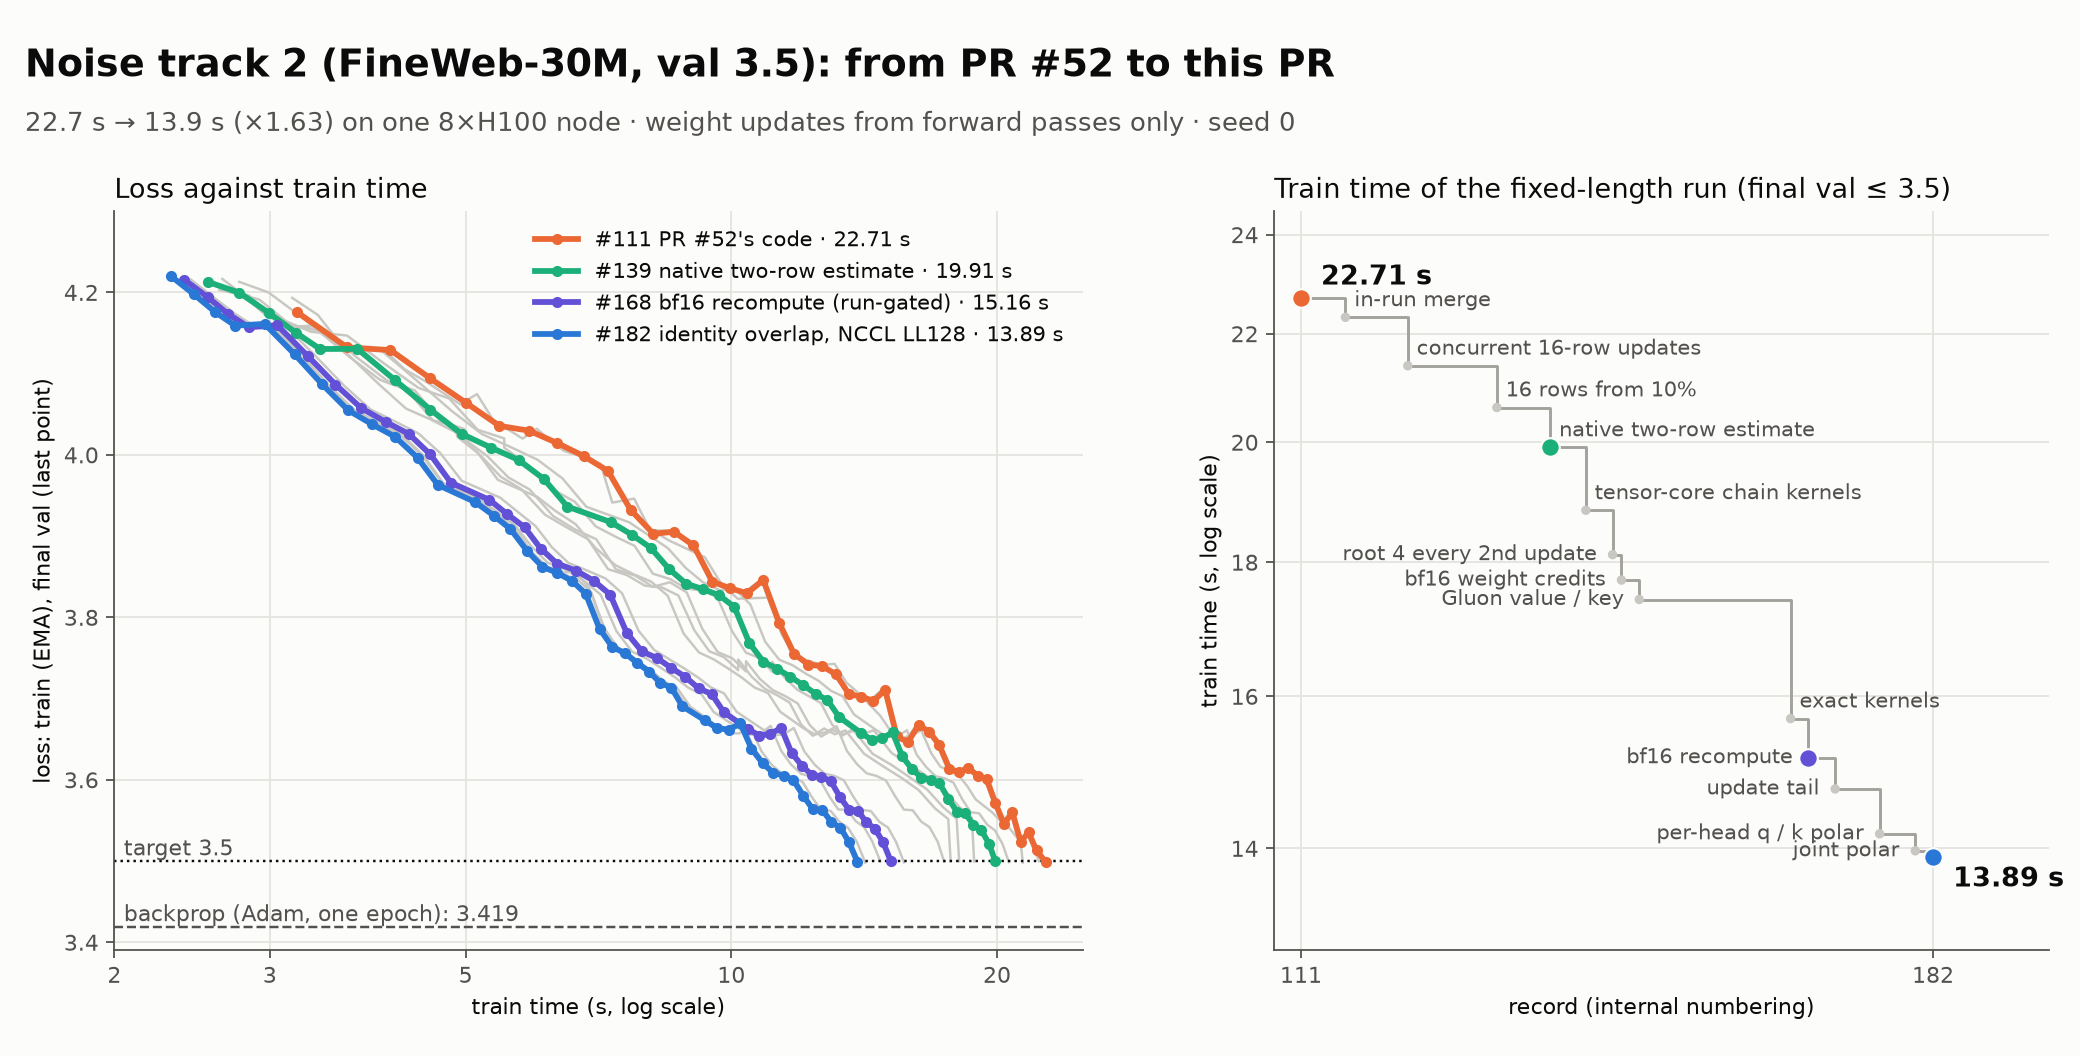
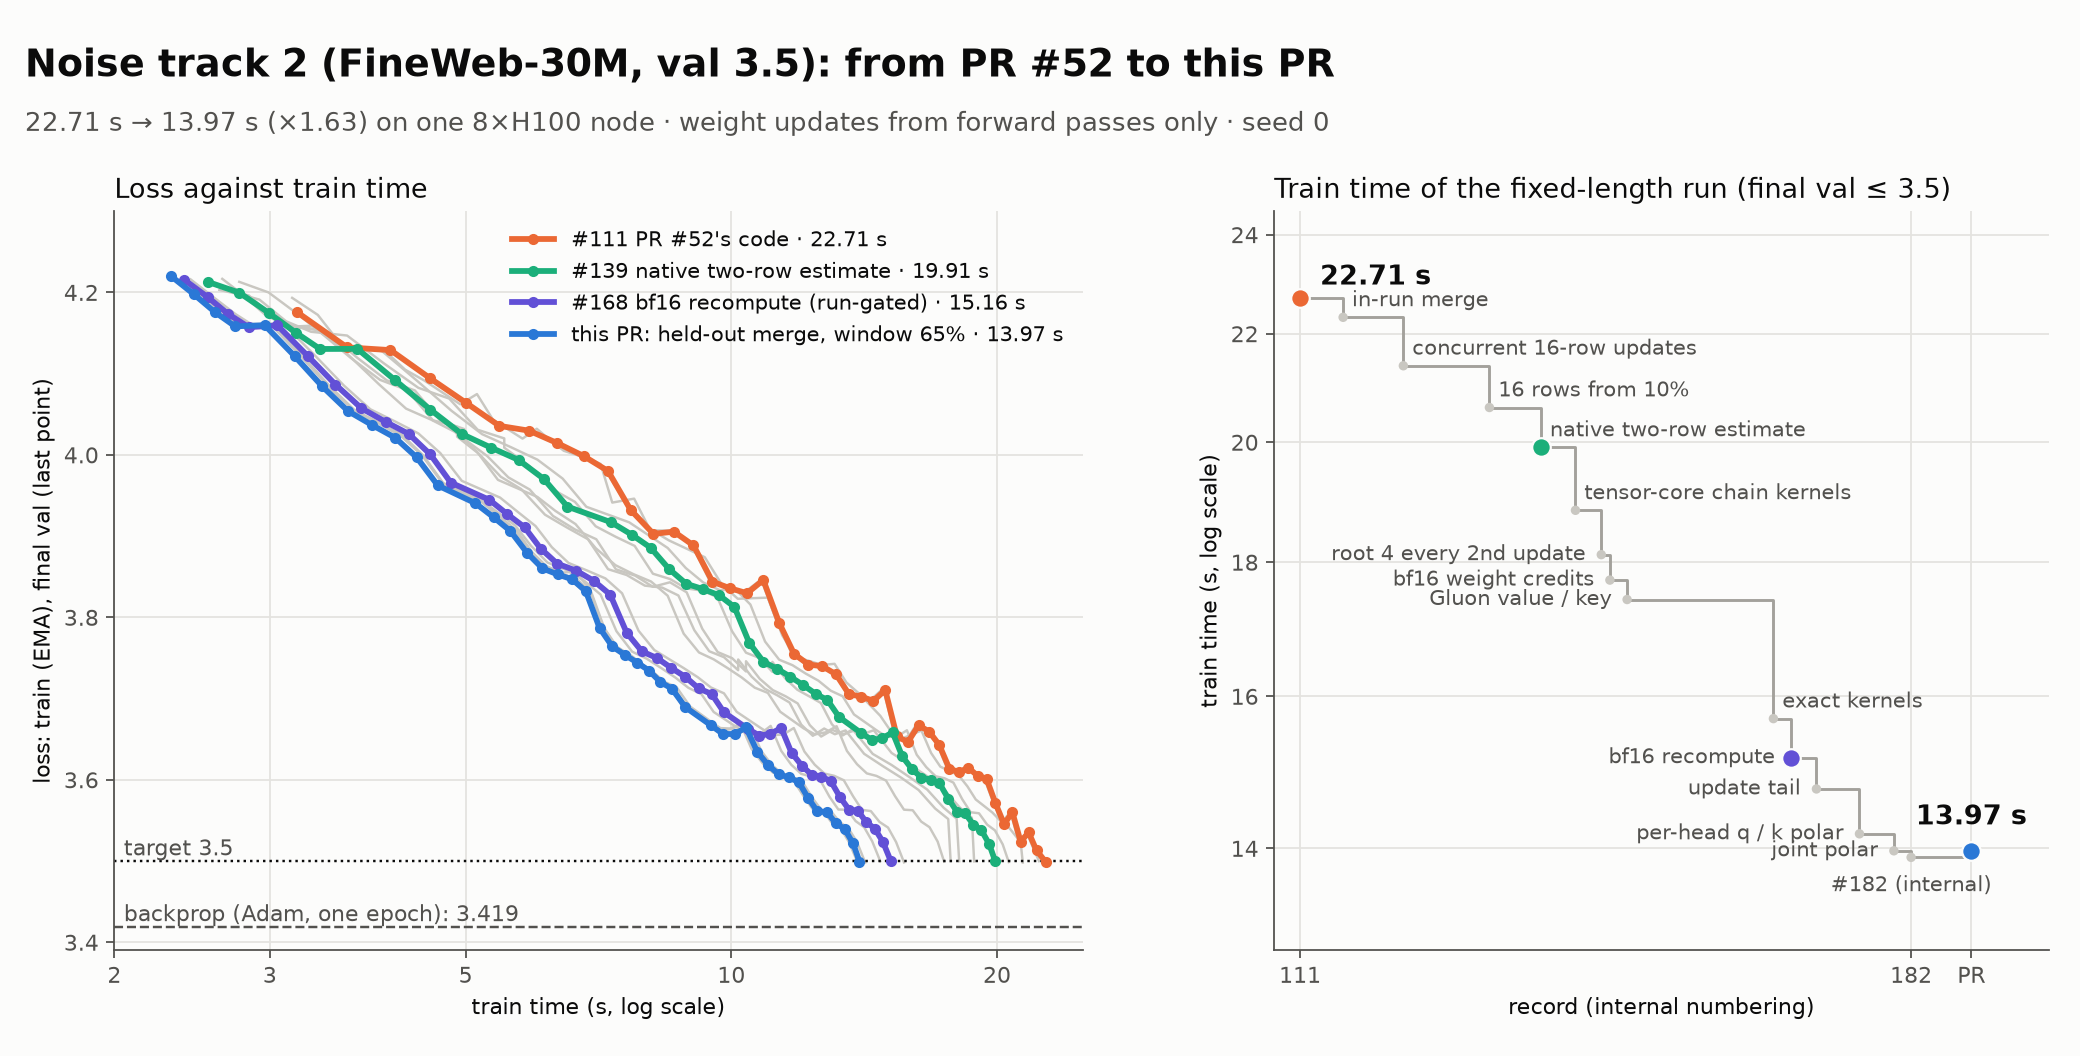
PR text with the final log's numbers; the in-run merge on held-out rows only; figures end at this PR's run

diff --git a/PR.md b/PR.md
@@ -1,30 +1,26 @@
 # Draft PR: track 2 (30M) record, 3.5 in ~14 s
 
-Draft, not opened. Code branch: `RobertTLange:track2-wide-cut`. Placeholders for the stripped script's final log are
-marked **TBD**.
+Draft, not opened. Code branch: `RobertTLange:track2-wide-cut` (`0736d61`).
 
-**Title:** Track 2 (30M): **TBD_VAL** in **TBD_TIME** s — 16-row Cut updates, root 4 on every 2nd update early,
+**Title:** Track 2 (30M): 3.4993 in 14.0 s — 16-row Cut updates, root 4 on every 2nd update early,
 tensor-core and Gluon credit kernels, per-head q/k polar and a scheduled update tail (seed 0, one 8xH100 node)
 
 ---
 
 ## Result
 
-**TBD_VAL in TBD_TIME s** with seed 0 (the log in `train/speedrun/log/`; `utils/eval.py` on its `final.pt`:
-TBD_EVAL). Against the current record (#52, 3.4976 in 22.9 s), that's ×TBD_SPEEDUP faster (the internal run below:
-22.89 / 13.89 = ×1.65). Identity phase TBD_ID s, end merge TBD_MERGE s.
+**3.49932 in 13.97 s** with seed 0 (the log in `train/speedrun/log/`). `utils/eval.py` on its `final.pt` gives the
+same 3.49932. Against the current record (#52, 3.4976 in 22.9 s), that's ×1.64 faster. Identity phase 1.33 s, end
+merge 0.07 s.
 
 - **Command:** `uv run torchrun --standalone --nproc_per_node=8 train/speedrun/run.py`, the default command with no
   flags.
-- **Run-to-run spread:** the margin is thin, and most runs of this command miss the target by a little. Final val
-  varies by about ±0.0012 between runs of the same code. The record command (internal #182) passed in 1 of 7 runs:
-  3.49922, 3.50023, 3.50044, 3.50107, 3.50130, 3.50163 and 3.50173 (mean 3.5008). Its predecessors in the last round
-  passed in 1 of 2 to 1 of 5 runs. We spent each val gain on a wider root-4 window (below) until the command sat at the
-  line, so the speed comes with a low pass rate. A setting with more margin: the root-4 window at 10–65% instead of
-  10–70% passed 2 of 2 runs (3.49817, 3.49979) at 14.17–14.18 s, on the code with the per-head polar but before the joint
-  polar and the last scheduling changes.
-  The stripped script: TBD_PASS_COUNT.
-- **Timing spread:** the same code takes 13.88–13.94 s depending on the node.
+- **Run-to-run spread:** the margin is thin, and most runs of this code miss the target by a little. Final val
+  varies by about ±0.0012 between runs of the same code. This code passed in 3 of 12 runs, mean 3.50052. Of those, 8
+  were the plain command: 1 passed, mean 3.50085. The other 4 were screens of the same code through `--set`, and 2 of
+  them passed. We spent each val gain on a wider root-4 window (below) until the command sat at the line, so the speed
+  comes with a low pass rate.
+- **Timing spread:** the same code takes 13.96–14.02 s depending on the node.
 
 ![Train time per record, from PR #52 to this PR](https://raw.githubusercontent.com/RobertTLange/noise/track2-wide-cut-figures/pr-progress.png)
 
@@ -41,7 +37,7 @@ root 4's replay on half the updates in the first part of Cut.
    - **A native two-row estimate.** Each GPU estimates its two rows in one graph: capture, block recompute, route
      top-k, weight-credit GEMMs and the key / value kernels run on both rows at once. Each row keeps its own
      generators, so the draws match two one-row estimates. The two rows' chain replays run on two streams.
-   - **Root 4 on every 2nd update over 10–70% of Cut.** Root 4's replay (blocks 5–7 with the block-5 attention
+   - **Root 4 on every 2nd update over 10–65% of Cut.** Root 4's replay (blocks 5–7 with the block-5 attention
      replay) is the estimate's largest cost, ~40% of it. Inside the window it is replayed on every 2nd update, and
      its measured deviation from the identity-path prediction counts twice there. On the other updates root 4's
      credit is the identity-path prediction alone. Both estimate graphs are captured before the timer. The window
@@ -68,7 +64,8 @@ root 4's replay on half the updates in the first part of Cut.
 4. **The update.**
    - **Per-head polar for c_q / c_k**, from @CharlesDDDD's track-1 PR #54. ANVIL orthogonalizes each head's query and
      key rows together (one 128 × 512 polar per head) instead of each of c_q and c_k as one 512 × 512 matrix. On our
-     recipe this bought ~0.004 val for +0.07 s. We spent the val on the root-4 window (10–45% → 10–70%).
+     recipe this bought ~0.004 val for +0.07 s. We spent the val on the root-4 window: 10–45% → 10–70% internally,
+     10–65% here (see item 6).
    - ANVIL's weights and flat gradients are stored rank-major, so one reduce-scatter and one all-gather per update
      replace three of each. Each ANVIL unit is one CUDA graph, and the units overlap on two streams.
    - The next replay's inputs are staged under the previous update's tail. The gate-row prefetch is a graph on a
@@ -86,18 +83,23 @@ root 4's replay on half the updates in the first part of Cut.
      to Cut has no host sync. 355 updates now take 1.33 s (#52: 1.87 s).
 6. **The end merge, fit in the run.** Each of the 57 parts (one per weight matrix and the embeddings) gets its own
    coefficient a in w + a·(avg − w) toward the 0.02 weight average, in place of one coefficient for all. The parts
-   are split over the 8 ranks. Each rank probes its parts at a = 0.75 ± 0.5 on 24 identity-phase rows (one forward
-   from the part's first block) and fits a parabola per part. One all-reduce shares the vertices (clipped to
-   −0.25…1.25). The joint move is shrunk by the best of 0.25 / 0.5 / 0.75 on the 64 held-out rows. This is the
-   in-run form of the per-part merge in the closed #53 by @areu01or00, whose table was fit offline. It keeps 60–80%
-   of #53's offline gain (−0.002 to −0.003 val). Merge 0.15 s.
+   are split over the 8 ranks. Each rank probes its parts at a = 0.75 ± 0.5 on its 8 of the 64 held-out rows (one
+   forward from the part's first block) and fits a parabola per part. One all-reduce shares the vertices (clipped
+   to −0.25…1.25). The joint move is shrunk by the best of 0.25 / 0.5 / 0.75 on all 64 held-out rows. No row that
+   fed an update is read again. This is the in-run form of the per-part merge in the closed #53 by @areu01or00,
+   whose table was fit offline. Merge 0.07 s.
+   - Our internal records #116–#182 fit the parabolas on 24 identity-phase rows per rank, rows that had already fed
+     an update. There the in-run fit kept 60–80% of #53's offline gain (−0.002 to −0.003 val).
+   - Fitting on the held-out rows only makes the fits noisier and cost ~+0.0012 val (4 runs: mean 3.50153 at
+     10–70%). We paid that back with a narrower root-4 window, 10–65% instead of 10–70%, for ~+0.13 s. Hence
+     13.97 s here against 13.89 s for internal #182.
 
-The time per Cut row fell from 1.76 ms (#52) to 1.06 ms. That is 12.4 s for Cut's 11,744 rows, against 20.7 s.
+The time per Cut row fell from 1.76 ms (#52) to 1.07 ms. That is 12.6 s for Cut's 11,744 rows, against 20.7 s.
 
 ## How we got here
 
-We got here over 71 internal records (#112–#182), each a single seed-0 fixed-length run on this track's rules. The
-figure at the top shows the milestones:
+We got here over 71 internal records (#112–#182), each a single seed-0 fixed-length run, then this PR's
+held-out-only merge. The figure at the top shows the milestones:
 
 | # | Train time | Change |
 | --- | --- | --- |
@@ -115,7 +117,8 @@ figure at the top shows the milestones:
 | 171 | 14.75 s | update-tail scheduling (rank-major ANVIL, overlapped units, staged inputs) |
 | 176 | 14.18 s | per-head q/k polar (PR #54), root-4 window 10–65% |
 | 180 | 13.97 s | joint q/k polar per head, root-4 window 10–70% |
-| 182 | 13.89 s | identity phase overlapped, NCCL LL128 |
+| 182 | 13.89 s | identity phase overlapped, NCCL LL128 (merge fit on identity rows) |
+| PR | 13.97 s | merge fit on held-out rows only, root-4 window 10–65% |
 
 **What didn't work:**
 - **Cheaper root estimates.** We tried token subsets, row subsets, frame subsets, importance-sampled tokens, control
@@ -175,8 +178,8 @@ per-tensor cosine 1.000000.
 - **Fixed model and data.**
   - The final weights load strictly into `utils/model.py`.
   - Each training sequence feeds at most one update. A 16-row update uses each of its rows once.
-  - The merge's coefficient fit runs forwards on 24 identity-phase rows per rank, which had already fed their
-    identity update, and picks the shrink on the 64 held-out rows that feed no update.
+  - The end merge fits its coefficients and picks its shrink only on the 64 held-out rows, which feed no update.
+    Every other row feeds exactly one update (2,840 identity + 11,744 Cut + 64 held-out = 14,648).
 - **Timing.**
   - One `torchrun train/speedrun/run.py` process (helper kernel files next to it) and one timed region, from the first
     identity update to the end of the merge.
@@ -192,4 +195,4 @@ uv run torchrun --standalone --nproc_per_node=8 train/speedrun/run.py
 ```
 
 torch 2.10.0 (cu128), Triton 3.6 (Gluon kernels: Hopper / sm_90 only). The switches are `Settings` fields and
-module constants with the record's values as defaults. Script: TBD_LINES lines (#52: 2,928).
+module constants with the record's values as defaults. `run.py` is 4,458 lines (#52: 2,928).
